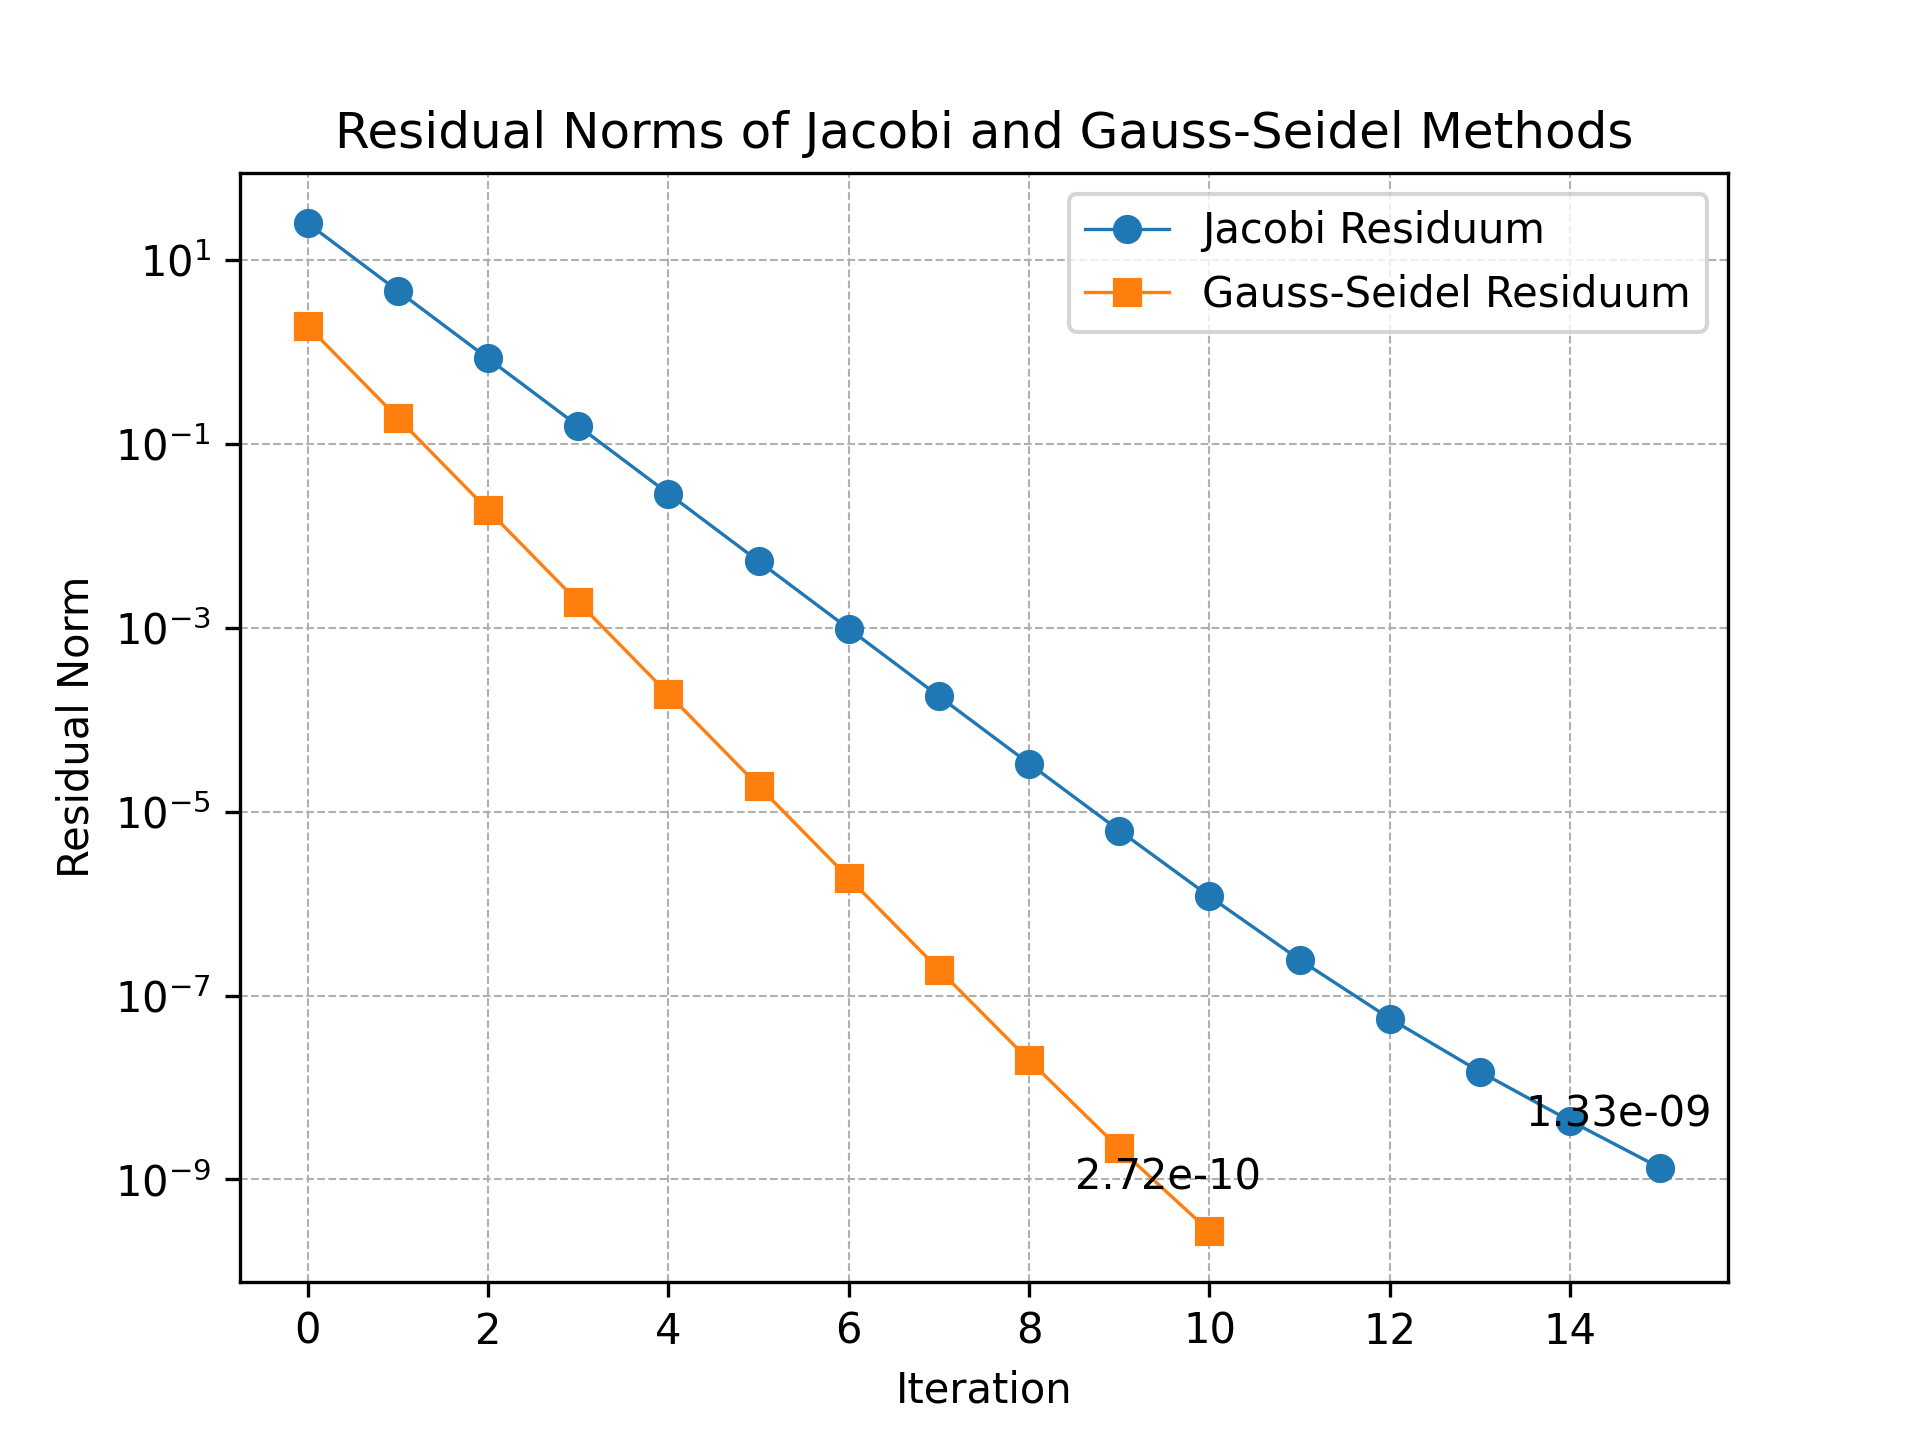
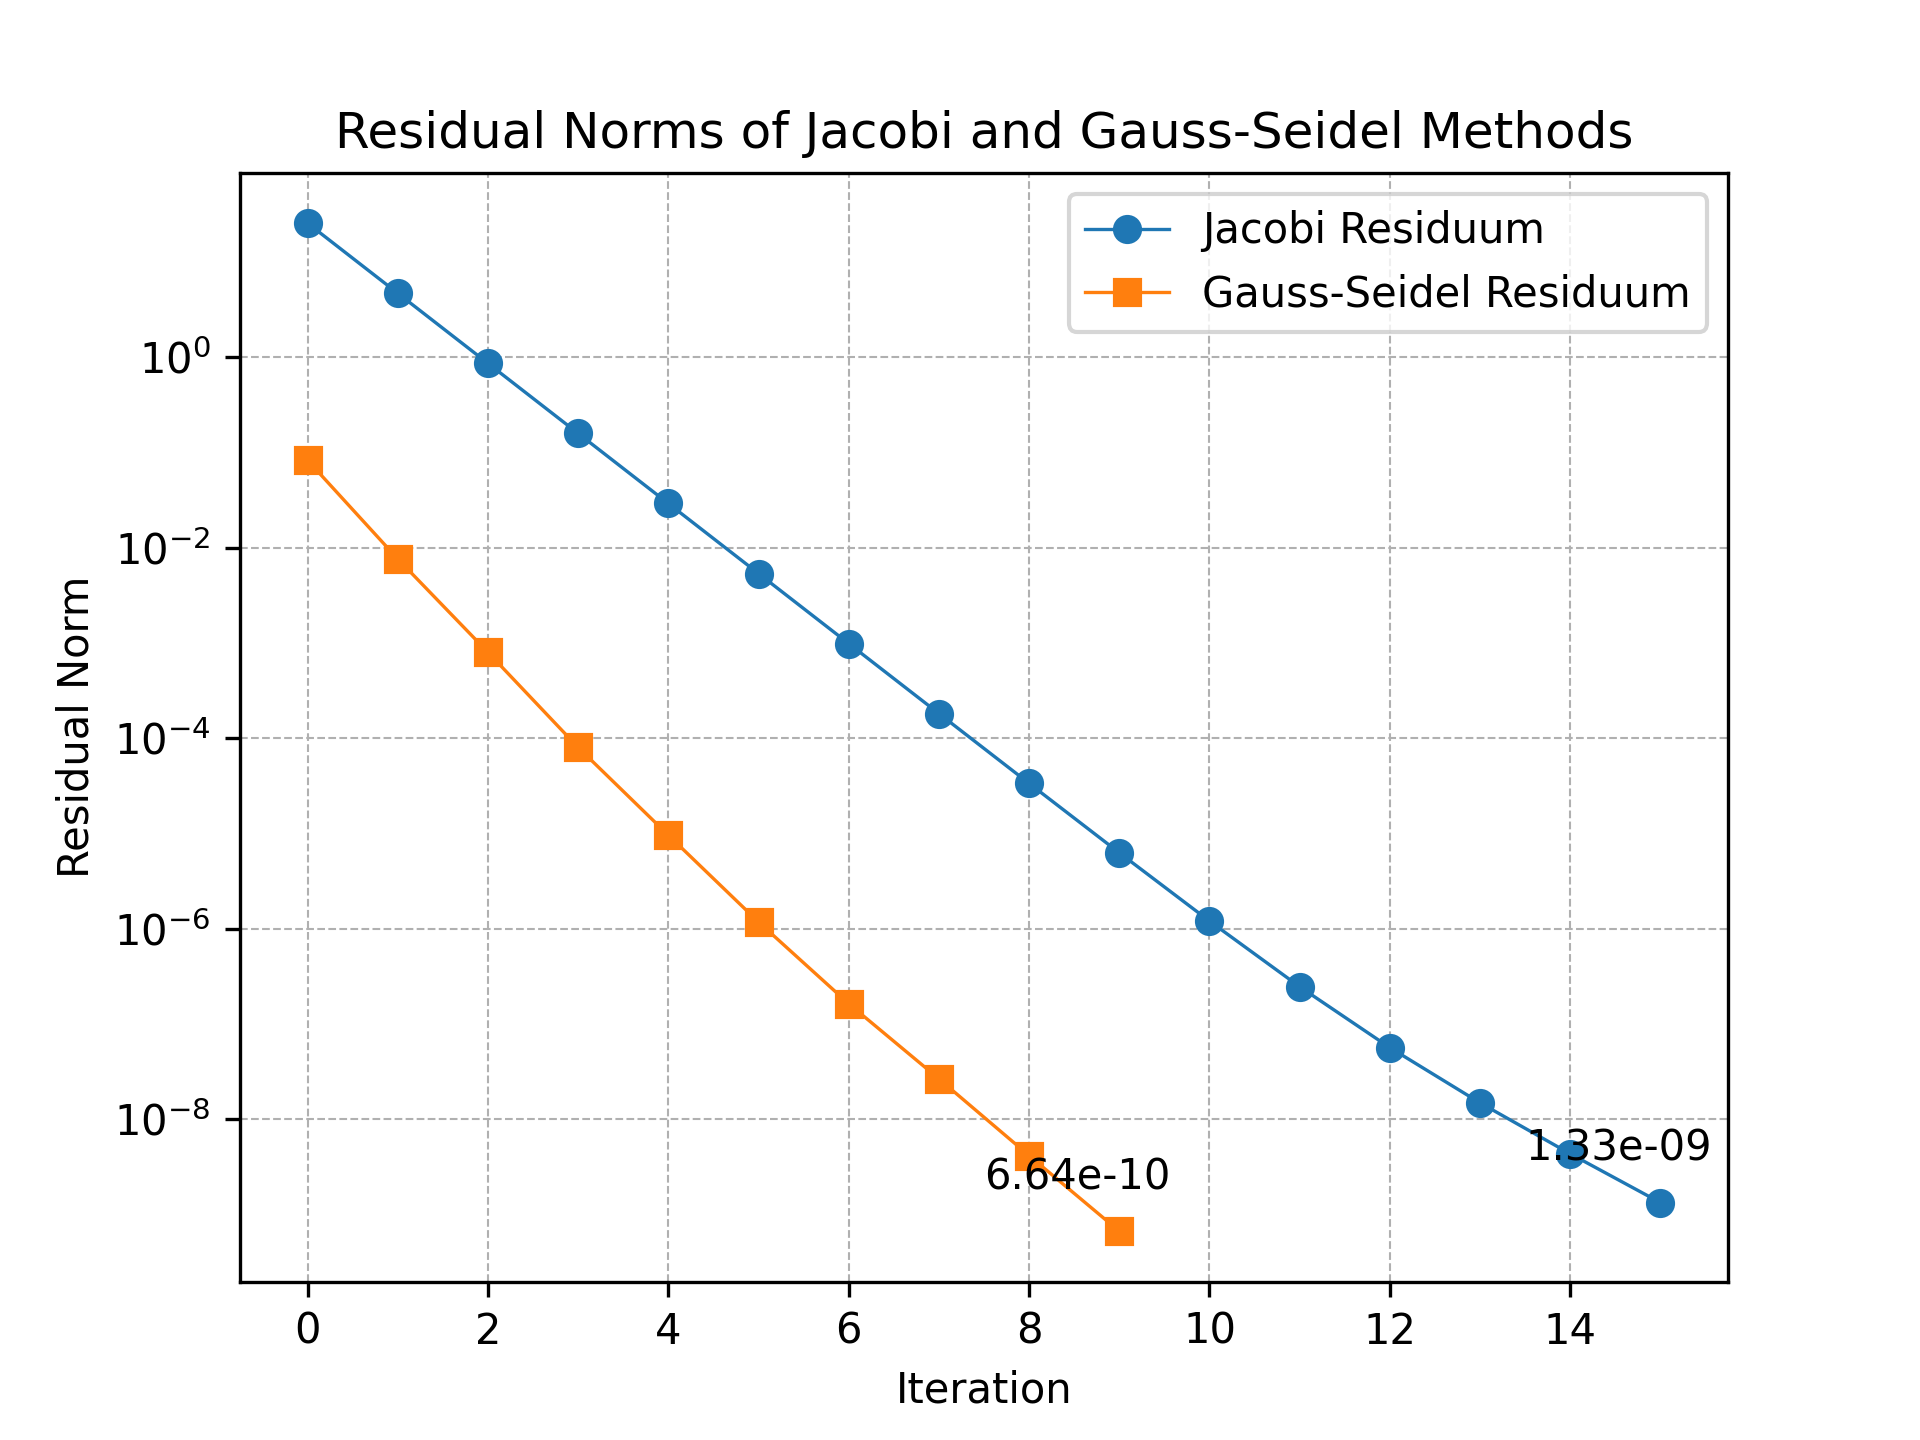
final - finished report, fixed gauss-seidel time, got more statistics for the report

diff --git a/sprawozdanie/sprawozdanie.tex b/sprawozdanie/sprawozdanie.tex
@@ -123,6 +123,12 @@ obliczeniowo, ponieważ wymaga $O(n^3)$ operacji arytmetycznych.
 \subsection{Metody iteracyjne}
 Do obydwu metod iteracyjnych macierz $A$ powinna być macierzą
 przekątniowo dominującą.
+Macierz $A$ jest przekątniowo dominująca, jeśli dla każdego wiersza
+$A_{ii}$ zachodzi:
+\begin{equation}
+    |A_{ii}| > \sum_{j \neq i} |A_{ij}|
+\end{equation}
+
 \subsubsection{Metoda Jacobiego}
 Metoda Jacobiego jest jedną z najprostszych metod iteracyjnych. Polega na
 wyznaczeniu wektora $x$ w oparciu o poprzedni wektor $x^{(k)}$.
@@ -141,21 +147,85 @@ poprzedni wektor $x^{(k)}$ oraz aktualny wektor $x^{(k+1)}$.
 
 \section{Analiza wyników}
 
+\subsection{Poprawnie uwarunkowana macierz}
+
+Poniższe wyniki przedstawione są dla macierzy wygenerowanej zgodnie z wzorem
+(1), wg. którego macierz okazuje się być przekątniowo dominująca.
+
+
 \begin{figure}[H]
   \centering
   \includegraphics[width=0.8\textwidth]{./graphs/residuals_task_a.png}
   \caption{Wykres reszt dla metody Jacobiego i Gaussa-Seidela}
+\end{figure}
+Krzywe z rys. 1 przedstawiają zbieżność obu metod iteracyjnych. Metoda 
+Gaussa-Seidela zbiega szybciej niż metoda Jacobiego, przez co potrzebowała
+ona jedynie 10 iteracji do osiągnięcia wyniku w granicach tolerancji
+($10^{-9}$), o 5 iteracji mniej niż metodzie Jacobiego. W tym przypadku metodzie 
+Gaussa-Seidela obliczenie wyniku zajęło \textbf{0.06} sekundy, a metodzie
+Jacobiego \textbf{0.09}.
 
+\subsection{Źle uwarunkowana macierz}
+W przypadku źle uwarunkowanej macierzy, która nie jest przekątniowo
+dominująca, zastosowanie metod iteracyjnych skutkuje brakiem
+ich zbieżności.
+
+\begin{figure}[H]
+  \centering
+  \includegraphics[width=0.8\textwidth]{./graphs/residuals_task_c.png}
+  \caption{Wykres reszt dla metody Jacobiego i Gaussa-Seidela dla źle
+  uwarunkowanej macierzy}
+\end{figure}
+
+Na rys. 2 przedstawione są krzywe zbieżności dla źle uwarunkowanej
+macierzy. Jak widać, metoda Gaussa-Seidela rośnie szybciej niż metoda
+Jacobiego, lecz obydwie rosną wykładniczo. Dalsze iteracje powstrzymał
+odgórny limit iteracji, który został ustawiony na 1000.
+
+\subsection{Faktoryzacja LU}
+W przypadku rozwiązywania układu zawierającego źle uwarunkowaną macierz
+niemożliwe jest zastosowanie metod iteracyjnych. W takim przypadku
+zastosować można jedynie metodę bezpośrednią, która w tym przypadku
+zajęła \textbf{195.13} sekundy. Norma residuum wyniosła \textbf{$1.68*10^{-10}$}.
+
+\pagebreak
+\section{Porównanie czasów obliczeń}
+Przedstawione wyniki są czasami obliczeń dla macierzy dobrze
+uwarunkowanych. Dodatkowo dla pewności poprawnych wyników, dla każdej
+metody zwiekszono liczbę iteracji do 1000000.
+
+\begin{figure}[H]
+  \centering
+  \includegraphics[width=0.8\textwidth]{./graphs/time_complexity_linear.png}
+  \caption{Czasy obliczeń w skali liniowej}
+\end{figure}
+
+Na rys. 3 przedstawione są czasy obliczeń dla każdej z metod 
+w skali liniowej. Jak widać, metoda Jacobiego jest znacznie wolniejsza
+od metody Gaussa-Seidela.
+
+\begin{figure}[H]
+  \centering
+  \includegraphics[width=0.8\textwidth]{./graphs/time_complexity.png}
+  \caption{Czasy obliczeń w skali logarytmicznej}
 \end{figure}
 
 \pagebreak
 
+\section{Podsumowanie}
+W projekcie przedstawione zostały trzy metody rozwiązywania układów równań
+liniowych. Metoda Jacobiego i metoda Gaussa-Seidela są metodami
+iteracyjnymi, które są stosunkowo proste w implementacji, lecz wymagają
+przekątniowo dominującej macierzy. W przypadku źle uwarunkowanej
+macierzy, która nie jest przekątniowo dominująca, metody te nie 
+zbiegają. Użycie metody bezpośredniej jest znacznie wolniejsze, lecz
+czasami niezbędne. 
+
 \begin{thebibliography}{9}
 \bibitem{LU decomposition}
 Geeks for Geeks (2023) \emph{LU Decomposition}, \url{https://www.geeksforgeeks.org/doolittle-algorithm-lu-decomposition/}.
-\bibitem{lamport94}
-Leslie Lamport (1994) \emph{\LaTeX: a document preparation system}, Addison
-Wesley, Massachusetts, 2nd ed.
+\bibitem{Iterative methods}
+Yousef Saad \emph{Iterative Methods for Sparse Linear Systems}.
 \end{thebibliography}
 
 \printbibliography

diff --git a/time_testing.py b/time_testing.py
@@ -3,13 +3,12 @@ from solve import solveJacobi, solveGauss_Seidel, solveLU, gauss_seidel
 from data import getMatrixTaskA, getVectorTaskA
 import time
 
+
 def main():
     sizes = range(100, 5001, 100)
 
     times_jacobi = []
     times_gauss_seidel = []
-    times_second_gauss_seidel = []
-    times_lu = []
 
     for size in sizes:
         A = getMatrixTaskA(size)
@@ -24,20 +23,11 @@ def main():
         print(f"Jacobi method for size {size} took {
             total_time:.4f} milliseconds")
 
-        # Measure time for Gauss-Seidel method
-        start_time = time.time()
-        solveGauss_Seidel(A, b, max_iterations=1000000)
-        end_time = time.time()
-        total_time = (end_time - start_time) * 1000
-        times_gauss_seidel.append(1000 * (end_time - start_time))
-        print(f"Gauss-Seidel method for size {size} took {
-            total_time:.4f} milliseconds")
-
         start_time = time.time()
         gauss_seidel(A, b, max_iter=1000000)
         end_time = time.time()
         total_time = (end_time - start_time) * 1000
-        times_second_gauss_seidel.append(1000 * (end_time - start_time))
+        times_gauss_seidel.append(1000 * (end_time - start_time))
         print(f"Gauss-Seidel method for size {size} took {
             total_time:.4f} milliseconds")
 
@@ -45,19 +35,19 @@ def main():
     plt.figure(figsize=(10, 5))
     plt.plot(sizes, times_jacobi, label='Jacobi Method', marker='o')
     plt.plot(sizes, times_gauss_seidel,
-             label='Gauss-Seidel Method', marker='o')
-    # plt.plot(sizes, times_lu, label='LU Method', marker='o')
-    plt.plot(sizes, times_second_gauss_seidel,
              label='Gauss-Seidel Method (Direct)', marker='o')
 
+    plt.subplots_adjust(bottom=0.2)
     plt.title('Time Complexity of Jacobi and Gauss-Seidel and Direct Methods')
     plt.xlabel('Matrix Size')
     plt.ylabel('Time [ms]')
     plt.legend()
     plt.grid()
     plt.yscale('log')
-    plt.xticks(sizes, [str(size) for size in sizes])
+    plt.xticks(rotation=45)
     plt.savefig("./sprawozdanie/graphs/time_complexity.png", dpi=300)
+    plt.yscale('linear')
+    plt.savefig("./sprawozdanie/graphs/time_complexity_linear.png", dpi=300)
     plt.show()
 
     return 0

diff --git a/solve.py b/solve.py
@@ -57,8 +57,6 @@ def solveJacobi(A, b, tol=1e-9, max_iterations=1000):
     U = np.triu(A, k=1)
 
     D_inv = np.linalg.inv(D)
-    M = -np.dot(D_inv, L + U)
-    w = np.dot(D_inv, b)
 
     r_norm = np.linalg.norm(np.dot(A, x) - b)
     jacobi_rnorm = np.array([r_norm]*max_iterations)
@@ -66,7 +64,7 @@ def solveJacobi(A, b, tol=1e-9, max_iterations=1000):
 
     while iter_count < max_iterations:
         jacobi_rnorm[iter_count] = r_norm
-        x_new = np.dot(M, x) + w
+        x_new = D_inv.dot(b - np.dot(L + U, x))
         r_norm = np.linalg.norm(np.dot(A, x_new) - b)
         x = x_new
         iter_count += 1
@@ -77,29 +75,26 @@ def solveJacobi(A, b, tol=1e-9, max_iterations=1000):
 
 
 def gauss_seidel(A, b, tol=1e-9, max_iter=1000):
+    n = len(b)
     x = np.zeros_like(b)
 
-    gauss_seidel_rnorm = np.array(
-        [np.linalg.norm(np.dot(A, x) - b)] * max_iter)
+    gauss_seidel_norms = np.zeros(max_iter)
     for iteration in range(max_iter):
         x_new = np.copy(x)
 
-        for i in range(len(b)):
-            # source:
-            # https://en.wikipedia.org/wiki/Gauss-Seidel_method#Element-based_formula
-            s1 = np.dot(A[i, :i], x_new[:i])  # first sum on formula TODO
-            s2 = np.dot(A[i, i+1:], x[i+1:])  # second sum on formula TODO
+        for i in range(n):
+            s1 = np.dot(A[i, :i], x_new[:i])
+            s2 = np.dot(A[i, i+1:], x[i+1:])
             x_new[i] = (b[i] - s1 - s2) / A[i, i]
-            r_norm = np.linalg.norm(x_new - x)  # residual norm
-            gauss_seidel_rnorm[iteration] = r_norm
 
-        if r_norm < tol:
-            return x_new, gauss_seidel_rnorm[:iteration+1], iteration+1
+        gauss_seidel_norms[iteration] = np.linalg.norm(x_new - x, ord=np.inf)
+        if gauss_seidel_norms[iteration] < tol:
+            return x_new, gauss_seidel_norms[:iteration + 1], iteration + 1
 
         x = x_new
 
     print('Osiągnięto maksymalną liczbę iteracji')
-    return x, gauss_seidel_rnorm[:iteration], iteration
+    return x, gauss_seidel_norms[:max_iter], max_iter
 
 
 def solveGauss_Seidel(A, b, tol=1e-9, max_iterations=1000):

diff --git a/main.py b/main.py
@@ -84,6 +84,12 @@ def main():
     gauss_seidel_time = timer
     print(f"Gauss-Seidel took {gauss_seidel_time:.2f} seconds")
 
+    print(f"Jacobi iterations: {jacobi_iterations}")
+    print(f"Gauss-Seidel iterations: {iterations}")
+
+    print(f"Jacobi Residuum length: {len(jacobi_residuum)}")
+    print(f"Gauss-Seidel Residuum length: {len(gauss_residuum)}")
+
     # Plotting the residuals
     plt.plot(jacobi_residuum, label="Jacobi Residuum",
              linewidth=0.8)
@@ -98,6 +104,7 @@ def main():
                  textcoords="offset points", xytext=(-10, 10), ha='center')
 
     plt.yscale("log")
+    plt.ylim(ymax=1e80)
     plt.grid(True, which="both", linestyle="--", linewidth=0.5)
     plt.xlabel("Iteration")
     plt.ylabel("Residual Norm")
@@ -107,6 +114,16 @@ def main():
     plt.show()
     # }}}
 
+# task D - residual norm of LU decomposition direct method
+
+    A = getMatrixTaskC(size)
+    b = getVectorTaskA(size)
+    timer = time.time()
+    x_lu, lu_residuum = solveLU(A, b)
+    timer = time.time() - timer
+    lu_time = timer
+    print(f"LU took {lu_time:.2f} seconds")
+    print(f"LU residuum: {lu_residuum:.2e}")
 
 if __name__ == "__main__":
     main()
